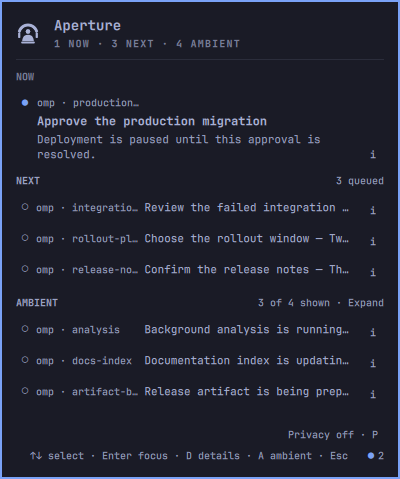
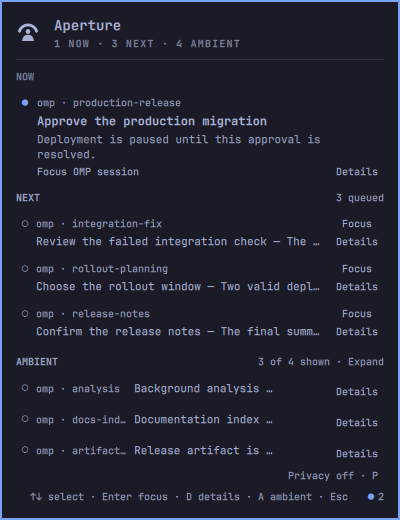
Polish attention panel readability and action affordances

diff --git a/Panel.qml b/Panel.qml
@@ -54,6 +54,13 @@ Panel {
   readonly property color dim: root.alpha(foreground, 0.9)
   readonly property string fontFamily: bar ? bar.fontFamily : Style.font.family
 
+  TextMetrics {
+    id: detailsMetrics
+    text: "Details"
+    font.family: root.fontFamily
+    font.pixelSize: Style.font.caption
+  }
+
   readonly property string surfaceStatus: attentionModel ? attentionModel.status : "connecting"
   readonly property bool presentsSnapshot: attentionModel ? attentionModel.presentsSnapshot : false
   readonly property var nowFrame: attentionModel ? attentionModel.nowFrame : null
@@ -471,6 +478,10 @@ Panel {
     inspectionTarget = null
   }
 
+  function clearStaleInspection() {
+    if (inspectedFrame === null && inspectionTarget !== null) closeInspection()
+  }
+
   function toggleInspection() {
     if (inspectionOpen) {
       closeInspection()
@@ -686,7 +697,9 @@ Panel {
   onNextFramesChanged: reconcileFocusState()
   onDisplayedAmbientFramesChanged: reconcileFocusState()
   onInspectedFrameChanged: {
-    if (inspectedFrame === null && inspectionTarget !== null) closeInspection()
+    // inspectionOpen already hides stale content; clear the target outside its binding evaluation.
+    if (inspectedFrame === null && inspectionTarget !== null)
+      Qt.callLater(clearStaleInspection)
   }
 
 
@@ -696,9 +709,10 @@ Panel {
     bar: root.bar
     active: root.barAlertActive
     dimmed: root.barDimmed
-    tooltipText: root.barTooltip()
+    tooltipText: root.barTooltip() + "\nRecommended toggle: Super + A"
 
     Accessible.name: root.barTooltip()
+    Accessible.description: "Recommended toggle: Super + A. Configure the binding in Hyprland."
     iconComponent: Component {
       ApertureMark {
         color: root.markColor
@@ -1075,37 +1089,14 @@ Panel {
                   width: Math.max(0, parent.width - nowDot.implicitWidth - parent.spacing)
                   spacing: Style.space(3)
 
-                  Item {
+                  Text {
                     width: parent.width
-                    implicitHeight: Math.max(nowMeta.implicitHeight, nowFocus.implicitHeight)
-
-                    Text {
-                      id: nowMeta
-                      anchors.left: parent.left
-                      width: Presentation.boundedMetadataWidth(
-                        parent.width, nowFocus.width + Style.space(96))
-                      anchors.verticalCenter: parent.verticalCenter
-                      text: root.frameMeta(root.nowFrame)
-                      textFormat: Text.PlainText
-                      color: root.dim
-                      font.family: root.fontFamily
-                      font.pixelSize: Style.font.caption
-                      elide: Text.ElideRight
-                    }
-
-                    Text {
-                      id: nowFocus
-                      visible: root.showFocusStatus(root.nowFrame, nowCard.hovered)
-                      width: visible ? implicitWidth : 0
-                      anchors.right: parent.right
-                      anchors.verticalCenter: parent.verticalCenter
-                      text: root.navigationStatusText(root.nowFrame).replace("OMP", "omp")
-                      textFormat: Text.PlainText
-                      color: root.canFocusFrame(root.nowFrame) ? root.foreground : root.dim
-                      font.family: root.fontFamily
-                      font.bold: nowCard.selected
-                      font.pixelSize: Style.font.caption
-                    }
+                    text: root.frameMeta(root.nowFrame)
+                    textFormat: Text.PlainText
+                    color: root.dim
+                    font.family: root.fontFamily
+                    font.pixelSize: Style.font.caption
+                    elide: Text.ElideRight
                   }
 
                   Text {
@@ -1133,6 +1124,16 @@ Panel {
                     elide: Text.ElideRight
                   }
 
+                  Text {
+                    width: parent.width
+                    text: root.navigationStatusText(root.nowFrame)
+                    textFormat: Text.PlainText
+                    color: root.canActivatePanelNow(root.nowFrame) ? root.foreground : root.dim
+                    font.family: root.fontFamily
+                    font.pixelSize: Style.font.caption
+                    elide: Text.ElideRight
+                  }
+
                 }
               }
 
@@ -1154,7 +1155,8 @@ Panel {
                 objectName: "inspectNow"
                 anchors.right: parent.right
                 anchors.bottom: parent.bottom
-                iconText: "i"
+                width: detailsMetrics.advanceWidth + Style.space(12)
+                iconText: "Details"
                 tooltipText: "Inspect details without focusing (D)"
                 foreground: root.foreground
                 fontFamily: root.fontFamily
@@ -1239,7 +1241,7 @@ Panel {
                     ? Border.controlSpec("hover-cursor", root.foreground, Color.accent)
                     : Border.none()
                   width: nextRows.width
-                  implicitHeight: Math.max(inspectNext.implicitHeight, nextDot.implicitHeight, nextLine.implicitHeight)
+                  implicitHeight: Math.max(nextActions.implicitHeight, nextDot.implicitHeight, nextLine.implicitHeight)
                     + Style.space(8)
                   Accessible.role: root.canFocusFrame(modelData)
                     ? Accessible.Link : Accessible.StaticText
@@ -1275,7 +1277,7 @@ Panel {
                     anchors.top: parent.top
                     anchors.bottom: parent.bottom
                     anchors.leftMargin: Style.space(6)
-                    anchors.rightMargin: inspectNext.width + Style.space(6)
+                    anchors.rightMargin: nextActions.width + Style.space(6)
                     anchors.topMargin: Style.space(4)
                     anchors.bottomMargin: Style.space(4)
                     spacing: Style.space(8)
@@ -1289,21 +1291,14 @@ Panel {
                       font.pixelSize: Style.font.caption
                     }
 
-                    Item {
+                    Column {
                       id: nextLine
                       width: Math.max(
                         0, parent.width - nextDot.implicitWidth - parent.spacing)
-                      implicitHeight: Math.max(
-                        nextMeta.implicitHeight,
-                        nextTitle.implicitHeight,
-                        nextFocus.implicitHeight)
+                      spacing: Style.space(3)
 
                       Text {
-                        id: nextMeta
-                        anchors.left: parent.left
-                        width: Presentation.boundedMetadataWidth(
-                          parent.width, nextFocus.width + Style.space(96))
-                        anchors.verticalCenter: parent.verticalCenter
+                        width: parent.width
                         text: root.frameMeta(modelData)
                         textFormat: Text.PlainText
                         color: root.dim
@@ -1313,12 +1308,7 @@ Panel {
                       }
 
                       Text {
-                        id: nextTitle
-                        anchors.left: nextMeta.right
-                        anchors.right: nextFocus.left
-                        anchors.leftMargin: Style.space(6)
-                        anchors.rightMargin: Style.space(6)
-                        anchors.verticalCenter: parent.verticalCenter
+                        width: parent.width
                         text: root.frameLine(modelData)
                         textFormat: Text.PlainText
                         color: root.foreground
@@ -1326,20 +1316,6 @@ Panel {
                         font.pixelSize: Style.font.bodySmall
                         font.bold: nextCard.selected
                         elide: Text.ElideRight
-                      }
-
-                      Text {
-                        id: nextFocus
-                        visible: root.showFocusStatus(modelData, nextCard.hovered)
-                        width: visible ? implicitWidth : 0
-                        anchors.right: parent.right
-                        anchors.verticalCenter: parent.verticalCenter
-                        text: root.navigationStatusText(modelData).replace("OMP", "omp")
-                        textFormat: Text.PlainText
-                        color: root.canFocusFrame(modelData) ? root.foreground : root.dim
-                        font.family: root.fontFamily
-                        font.pixelSize: Style.font.caption
-                        font.bold: nextCard.selected
                       }
                     }
                   }
@@ -1357,20 +1333,44 @@ Panel {
                     onClicked: root.focusFrame(modelData)
                   }
 
-                  PanelActionButton {
-                    id: inspectNext
-                    objectName: "inspectNext" + nextCard.index
+                  Column {
+                    id: nextActions
                     anchors.right: parent.right
                     anchors.verticalCenter: parent.verticalCenter
-                    iconText: "i"
-                    tooltipText: "Inspect details without focusing (D)"
-                    foreground: root.foreground
-                    fontFamily: root.fontFamily
-                    fontSize: Style.font.caption
-                    Accessible.role: Accessible.Button
-                    Accessible.name: "Inspect " + root.accessibleFrameName("NEXT", modelData)
-                    Accessible.onPressAction: root.inspectFrame(modelData)
-                    onClicked: root.inspectFrame(modelData)
+                    width: detailsMetrics.advanceWidth + Style.space(12)
+
+                    Text {
+                      width: parent.width
+                      text: root.canFocusFrame(modelData) ? "Focus" : "—"
+                      textFormat: Text.PlainText
+                      color: root.canFocusFrame(modelData) ? root.foreground : root.dim
+                      font.family: root.fontFamily
+                      font.pixelSize: Style.font.caption
+                      horizontalAlignment: Text.AlignHCenter
+                      Accessible.ignored: true
+
+                      HoverHandler { id: nextFocusHover }
+                      PanelToolTip {
+                        visible: nextFocusHover.hovered
+                        text: root.navigationStatusText(modelData)
+                        fontFamily: root.fontFamily
+                      }
+                    }
+
+                    PanelActionButton {
+                      id: inspectNext
+                      objectName: "inspectNext" + nextCard.index
+                      width: parent.width
+                      iconText: "Details"
+                      tooltipText: "Inspect details without focusing (D)"
+                      foreground: root.foreground
+                      fontFamily: root.fontFamily
+                      fontSize: Style.font.caption
+                      Accessible.role: Accessible.Button
+                      Accessible.name: "Inspect " + root.accessibleFrameName("NEXT", modelData)
+                      Accessible.onPressAction: root.inspectFrame(modelData)
+                      onClicked: root.inspectFrame(modelData)
+                    }
                   }
                 }
               }
@@ -1565,19 +1565,25 @@ Panel {
 
                       Text {
                         id: ambientFocus
-                        visible:
-                          root.showFocusStatus(modelData, ambientCard.hovered)
-                        width: visible ? implicitWidth : 0
+                        opacity: root.showFocusStatus(modelData, ambientCard.hovered) ? 1 : 0
+                        width: detailsMetrics.advanceWidth
                         anchors.right: parent.right
                         anchors.verticalCenter: parent.verticalCenter
-                        text: root.navigationStatusText(modelData)
-                          .replace("OMP", "omp")
+                        text: root.canFocusFrame(modelData) ? "Focus" : "—"
                         textFormat: Text.PlainText
                         color: root.canFocusFrame(modelData)
                           ? root.foreground : root.dim
                         font.family: root.fontFamily
                         font.pixelSize: Style.font.caption
-                        font.bold: ambientCard.selected
+                        horizontalAlignment: Text.AlignHCenter
+                        Accessible.ignored: true
+
+                        HoverHandler { id: ambientFocusHover }
+                        PanelToolTip {
+                          visible: ambientFocusHover.hovered && ambientFocus.opacity > 0
+                          text: root.navigationStatusText(modelData)
+                          fontFamily: root.fontFamily
+                        }
                       }
                     }
                   }
@@ -1600,7 +1606,8 @@ Panel {
                     objectName: "inspectAmbient" + ambientCard.index
                     anchors.right: parent.right
                     anchors.verticalCenter: parent.verticalCenter
-                    iconText: "i"
+                    width: detailsMetrics.advanceWidth + Style.space(12)
+                    iconText: "Details"
                     tooltipText: "Inspect details without focusing (D)"
                     foreground: root.foreground
                     fontFamily: root.fontFamily

diff --git a/ApertureMark.qml b/ApertureMark.qml
@@ -23,8 +23,7 @@ Item {
     // Keep the 24px arcs analytic; geometry tessellation shows facets at bar scale.
     preferredRendererType: Shape.CurveRenderer
 
-    // Pressure changes stroke weight and adds aperture rails, so the state
-    // remains distinct in monochrome and high-contrast themes.
+    // Stroke weight communicates pressure without changing the mark's silhouette.
     ShapePath {
       strokeColor: root.color
       strokeWidth: 1.5 + root.level * 0.35
@@ -34,39 +33,6 @@ Item {
 
       PathSvg {
         path: "M3.44 9.22 A9 9 0 0 1 20.56 9.22"
-      }
-    }
-
-    ShapePath {
-      strokeColor: root.level >= 2 ? root.color : "transparent"
-      strokeWidth: root.level >= 3 ? 2 : 1.5
-      fillColor: "transparent"
-      capStyle: ShapePath.RoundCap
-
-      PathSvg {
-        path: "M5.25 6.65 A8.25 8.25 0 0 1 18.75 6.65"
-      }
-    }
-
-    ShapePath {
-      strokeColor: root.level >= 3 ? root.color : "transparent"
-      strokeWidth: root.level >= 4 ? 2.25 : 1.5
-      fillColor: "transparent"
-      capStyle: ShapePath.RoundCap
-
-      PathSvg {
-        path: "M3.25 11.5 L3.25 15 M20.75 11.5 L20.75 15"
-      }
-    }
-
-    ShapePath {
-      strokeColor: root.level >= 4 ? root.color : "transparent"
-      strokeWidth: 2
-      fillColor: "transparent"
-      capStyle: ShapePath.RoundCap
-
-      PathSvg {
-        path: "M6.25 20.5 L17.75 20.5"
       }
     }
 

diff --git a/README.md b/README.md
@@ -88,7 +88,7 @@ Controls:
 - **Super + A / bar mark:** open or close.
 - **↑ / ↓:** select a focusable row.
 - **Enter / row click:** focus its OMP pane.
-- **D / inspection control:** inspect the full attention text without focusing.
+- **D / Details:** inspect the full attention text without focusing.
 - **← / →** while inspecting: browse items; **↑ / ↓:** scroll.
 - **P / privacy control:** hide or reveal details in the open panel, including inspection.
 - **A:** expand or collapse Ambient.
